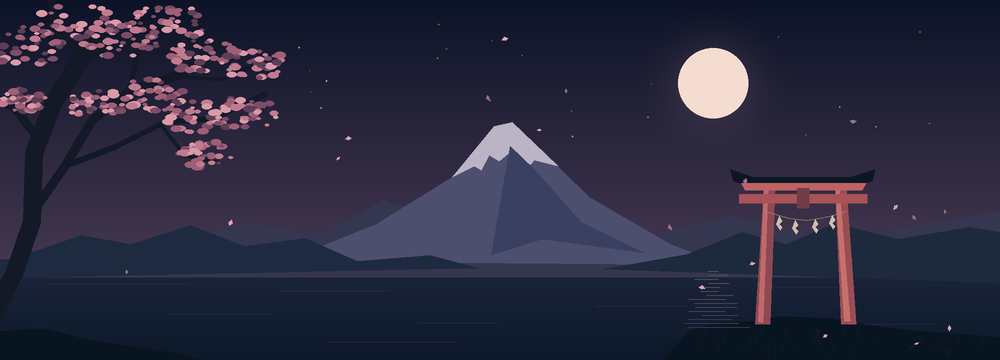
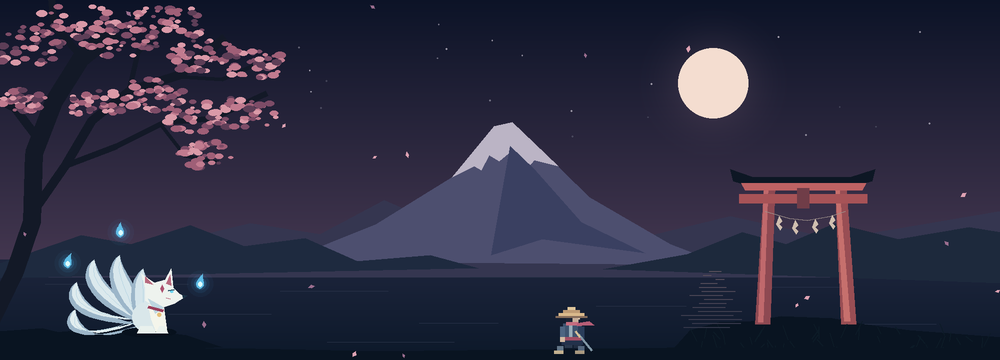
Add spirit fox and wandering samurai to profile animation

diff --git a/README.md b/README.md
@@ -8,7 +8,7 @@
 
 <picture>
   <source media="(prefers-reduced-motion: reduce)" srcset="assets/moonlit-japan.png">
-  <img src="assets/moonlit-japan.gif" width="1000" alt="A quiet, anime-inspired Japanese night: sakura petals drift past Mount Fuji and a torii gate beneath the moon.">
+  <img src="assets/moonlit-japan.gif" width="1000" alt="A moonlit Japanese scene: a white kitsune sways its tails beneath a sakura tree as blue spirit lights float nearby, while a tiny pixel samurai walks along the lake and pauses to watch the moon.">
 </picture>
 
 </div>
